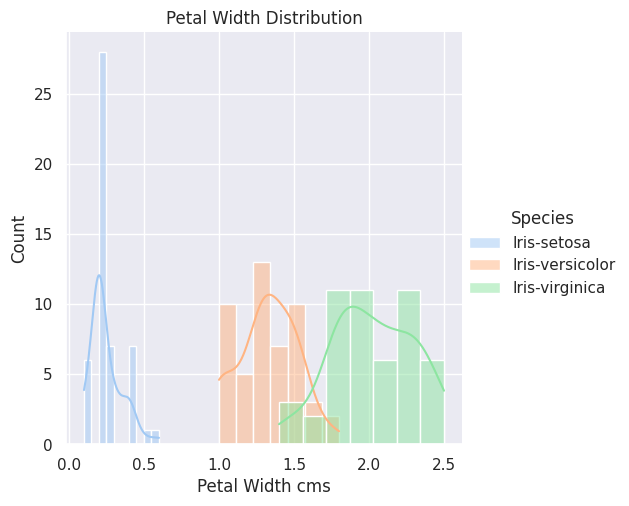
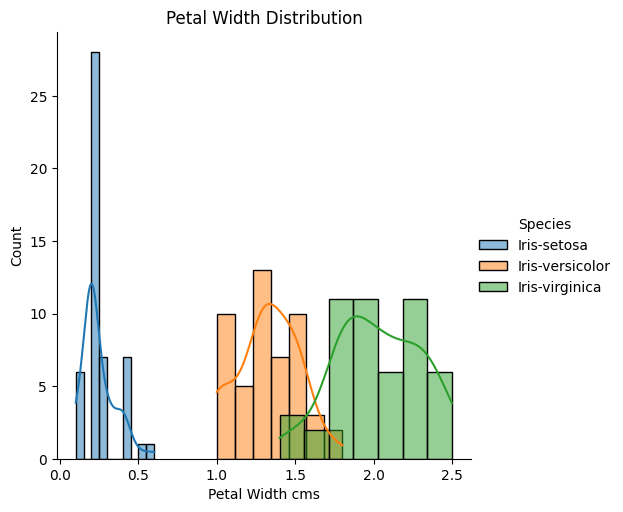
Add heatmaps & remove sns theme

diff --git a/analysis.py b/analysis.py
@@ -23,8 +23,8 @@ url = 'http://archive.ics.uci.edu/ml/machine-learning-databases/iris/iris.data' 
 # # # # # Set Themes # # # # #
 
 # Set Seaborn theme to use pastel colours
-sns.set_theme(context='notebook', style='darkgrid', palette='pastel', font='sans-serif', font_scale=1, color_codes=True,
-              rc=None)
+#sns.set_theme(context='notebook', style='darkgrid', palette='pastel', font='sans-serif', font_scale=1, color_codes=True,
+#              rc=None)
 
 # # # # # Read in the data set set from URL # # # # #
 
@@ -126,8 +126,8 @@ fig4.write_image("images/tables/iris_data_set_full.png", scale=1)
 # # # # # Create & save histograms # # # # #
 
 # define theme for sns - https://seaborn.pydata.org/generated/seaborn.set_theme.html - accessed 30/03/2023
-sns.set_theme(context='notebook', style='darkgrid', palette='pastel', font='sans-serif', font_scale=1,
-              color_codes=True, rc=None)
+# sns.set_theme(context='notebook', style='darkgrid', palette='pastel', font='sans-serif', font_scale=1,
+#              color_codes=True, rc=None)
 # code to create histograms using seaborn module - https://gist.github.com/mwaskom/de44147ed2974457ad6372750bbe5751
 # - accessed 30/03/2023
 plot = sns.FacetGrid(iris, hue="Species", height=5)
@@ -245,4 +245,34 @@ plt.subplot(224)
 violin_graph('Petal Width cms')
 
 plt.savefig('images/plots/violin_plots/violin_plots.png')
+plt.show()
+
+# # # # # Generate Heatmap # # # # #
+
+iris_heatmap = pd.read_csv(url, names=["Sepal Length cms", "Sepal Width cms", "Petal Length cms",
+                                     "Petal Width cms", "Species"])
+
+iris_heatmap.drop('Species', axis=1, inplace=True)
+corr = iris_heatmap.corr()
+fig, ax = plt.subplots()
+img = ax.imshow(corr.values,cmap = "magma_r")
+# set labels
+ax.set_xticks(np.arange(len(corr.columns)))
+ax.set_yticks(np.arange(len(corr.columns)))
+ax.set_xticklabels(corr.columns)
+ax.set_yticklabels(corr.columns)
+cbar = ax.figure.colorbar(img, ax=ax ,cmap='')
+plt.setp(ax.get_xticklabels(), rotation=30, ha="right",
+         rotation_mode="anchor")
+# text annotations.
+for i in range(len(corr.columns)):
+    for j in range(len(corr.columns)):
+        if corr.iloc[i, j]<0:
+            text = ax.text(j, i, np.around(corr.iloc[i, j], decimals=2),
+                       ha="center", va="center", color="black")
+        else:
+            text = ax.text(j, i, np.around(corr.iloc[i, j], decimals=2),
+                       ha="center", va="center", color="white")
+
+plt.savefig('images/plots/heatmap/heatmap.png')
 plt.show()

diff --git a/rough_work.py b/rough_work.py
@@ -4,7 +4,7 @@
 
 import pandas as pd
 import seaborn as sns
-#sns.set_theme(context='notebook', style='darkgrid', palette='pastel', font='sans-serif', font_scale=1, color_codes=True, rc=None)
+#sns.set_theme(context='notebook', palette='pastel', font='sans-serif', font_scale=1, color_codes=True, rc=None)
 import matplotlib.pyplot as plt
 import numpy as np
 import sklearn
@@ -12,27 +12,28 @@ import sklearn
 # download iris data and read it into a dataframe
 url = 'http://archive.ics.uci.edu/ml/machine-learning-databases/iris/iris.data'
 
-iris = pd.read_csv(url, names=["Sepal Length cms", "Sepal Width cms", "Petal Length cms",
+iris_heatmap = pd.read_csv(url, names=["Sepal Length cms", "Sepal Width cms", "Petal Length cms",
                                      "Petal Width cms", "Species"])
 
-def graph(y):
-    sns.violinplot(x="Species", y=y, data=iris)
-
-
-# plot size
-plt.figure(figsize=(10, 10))
-# Adding the subplot at the specified
-# grid position
-plt.subplot(221)
-graph('Sepal Length cms')
-
-plt.subplot(222)
-graph('Sepal Width cms')
-
-plt.subplot(223)
-graph('Petal Length cms')
-
-plt.subplot(224)
-graph('Petal Width cms')
-
+iris_heatmap.drop('Species', axis=1, inplace=True)
+corr = iris_heatmap.corr()
+fig, ax = plt.subplots()
+img = ax.imshow(corr.values,cmap = "magma_r")
+# set labels
+ax.set_xticks(np.arange(len(corr.columns)))
+ax.set_yticks(np.arange(len(corr.columns)))
+ax.set_xticklabels(corr.columns)
+ax.set_yticklabels(corr.columns)
+cbar = ax.figure.colorbar(img, ax=ax ,cmap='')
+plt.setp(ax.get_xticklabels(), rotation=30, ha="right",
+         rotation_mode="anchor")
+# text annotations.
+for i in range(len(corr.columns)):
+    for j in range(len(corr.columns)):
+        if corr.iloc[i, j]<0:
+            text = ax.text(j, i, np.around(corr.iloc[i, j], decimals=2),
+                       ha="center", va="center", color="black")
+        else:
+            text = ax.text(j, i, np.around(corr.iloc[i, j], decimals=2),
+                       ha="center", va="center", color="white")
 plt.show()

diff --git a/ty.py b/ty.py
@@ -1,0 +1,16 @@
+import pandas as pd
+import seaborn as sns
+#sns.set_theme(context='notebook', style='darkgrid', palette='pastel', font='sans-serif', font_scale=1, color_codes=True, rc=None)
+import matplotlib.pyplot as plt
+#import numpy as np
+import sklearn
+
+# download iris data and read it into a dataframe
+url = 'http://archive.ics.uci.edu/ml/machine-learning-databases/iris/iris.data'
+
+iris = pd.read_csv(url)
+
+#plt.figure(figsize=(7,4))
+#sns.heatmap(iris.corr(),annot=True,cmap='summer')
+corr = iris.corr()
+#plt.show()

diff --git a/README.md b/README.md
@@ -158,9 +158,10 @@ Applying the [interquartile method](https://www.geeksforgeeks.org/detect-and-rem
 it is possible to remove outliers from the data set using python. The challenge with the Iris data set is it's small
 size and relatively small number of outliers. For demonstrative purposes one could look at cleansing the Iris-setosa 
 petal length outliers. Plot 2 demonstrates the outliers for this subset of the data set. Plot 3 demonstrates the 
-boxplot for the subset that has been cleansed of outliers using the interquartile method. The boxplot indicates that 
-further outliers remain. The small dataset size is causing this anomaly. 4 data points are remove when applying the 
-interquartile method suggesting that cleansing data of outliers only adds value with larger data sets. 
+boxplot for the subset that has been cleansed of outliers using the interquartile method. Plot seems to indicate that 
+further outliers remain. The small dataset size is causing this anomaly. Four outlier data points are removed when 
+applying the interquartile method for this sub dataset. Given the anomaly caused by removing outliers, cleansing data 
+of outliers only adds value with larger data sets. 
 
 **Plot 2 - Outlier Demonstration**
 
